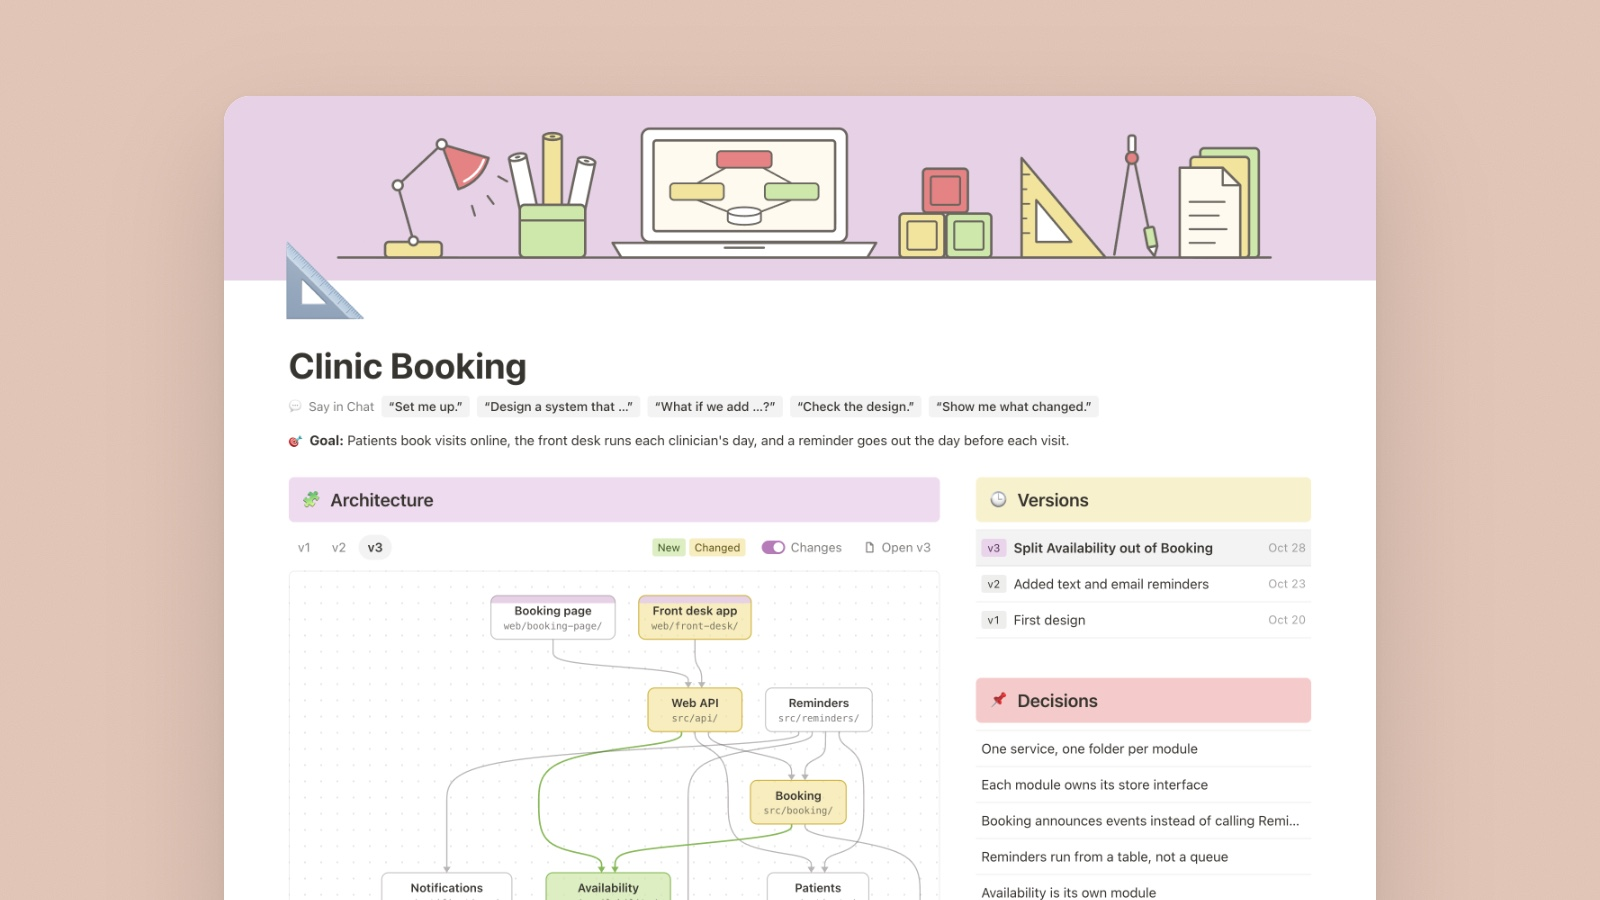
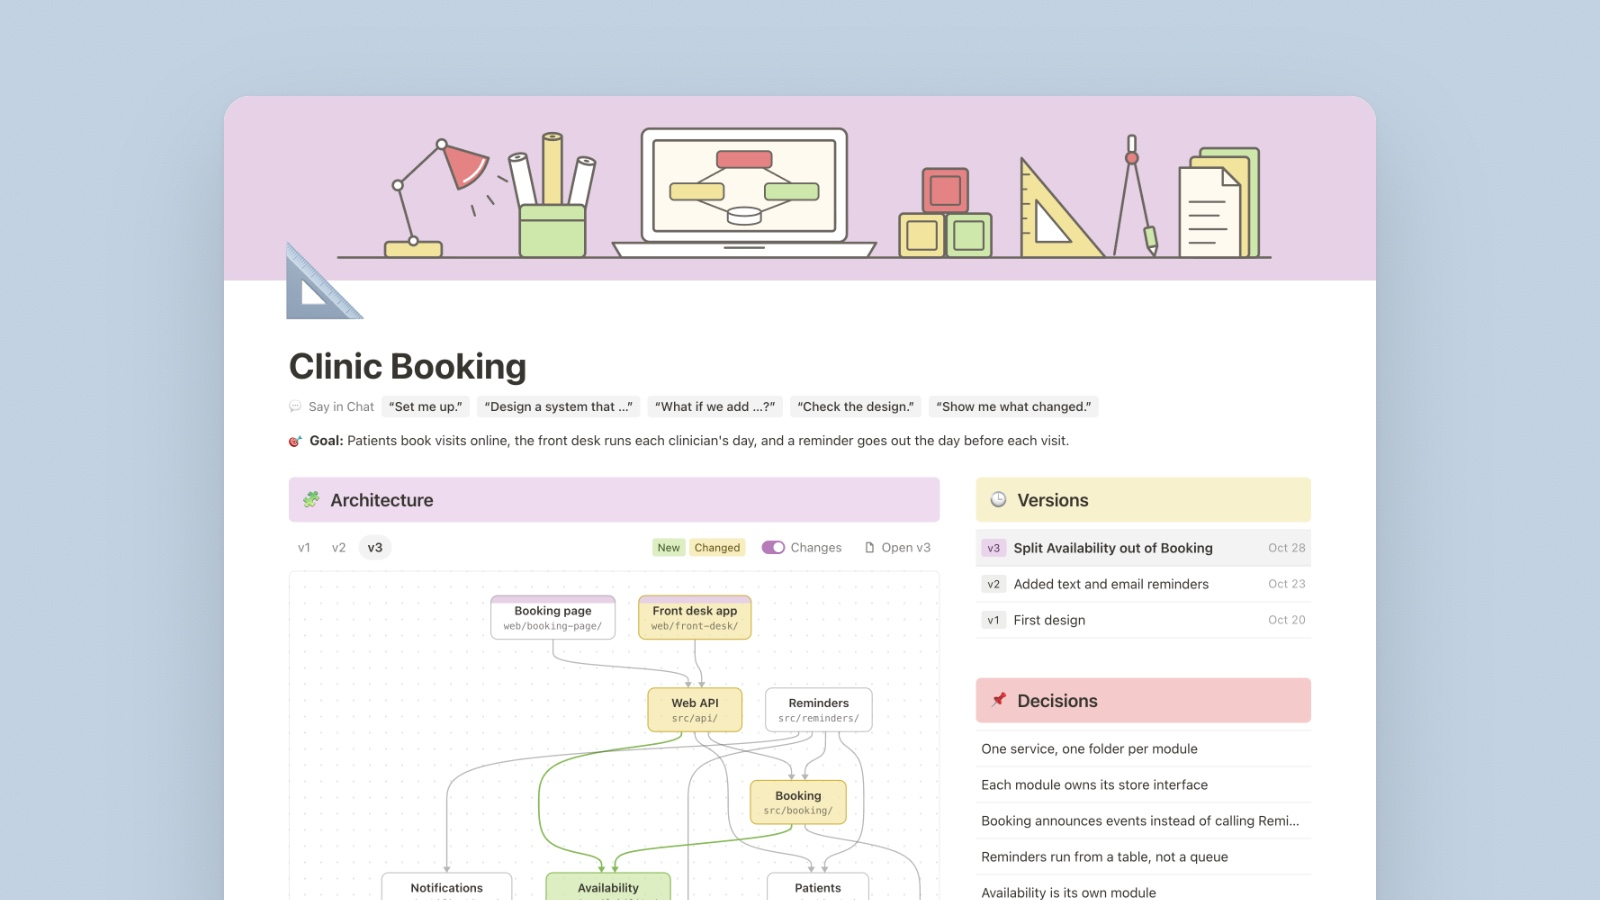
Give Software Architect a blue cover
Its cover tone goes from clay to blue. It no longer sits clay next to clay
beside X Content Starter, and blue goes with its soft orchid banner.

diff --git a/covers/software-architect.html b/covers/software-architect.html
@@ -9,7 +9,7 @@
   .thing img { display: block; width: 100%; }
 </style>
 </head>
-<body class="clay">
+<body class="blue">
   <div class="grain"></div>
   <div class="thing"><img src="software-architect.png" alt=""></div>
 </body>

diff --git a/covers/README.md b/covers/README.md
@@ -21,5 +21,5 @@ sips -s format jpeg -s formatOptions 90 cover.png --out wikis/<id>/screenshots/c
 | paper-tracker-for-industry | violet, weekly digest | — |
 | llm-wiki-for-papers | green, screenshot of the wiki's dashboard: topics, papers, and progress | blue `#a6cbe8` |
 | poc-deck-builder | blue, results slide with each success criterion against its target | — |
-| software-architect | clay, screenshot of the architecture dashboard: the diagram, versions, and decisions | soft orchid `#e6d1e6` |
+| software-architect | blue, screenshot of the architecture dashboard: the diagram, versions, and decisions | soft orchid `#e6d1e6` |
 | workout-tracker | violet, screenshot of the tracker page with the first week done | teal `#b4e0db` |
